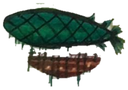
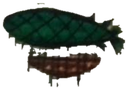
feat: main menu on Marti's darker repaint, night veil off
The menu painting now comes from the 2026-11-25 photo of the repaint.
menu_painting.py takes an optional reference (tools/storeart/key_art.jpg,
the 2026-11-23 flattening) and lays the new photo onto it through a
matched displacement field: the two photos disagreed by up to ~38 px
inside the edges, and every hand-placed coordinate (airship, clock,
windows, character outlines) is in the reference's pixels.
menu_painting_band.py finds those shapes on the sharper reference and
takes the colours from the new photo; the softer, darker repaint has no
clean thresholds. Tape in shadowed corners is detected too.

The repaint is dark enough on its own, so the flat night veil is off
(NIGHT.alpha 0) and only the edge vignette stays; the veil made it muddy.
Store art still uses the old painting.

diff --git a/scenes/MainScene.js b/scenes/MainScene.js
@@ -14,9 +14,10 @@ const PANEL_W = 470;           // the Load / Settings panels sliding out of the 
 const TITLE_X = 457;           // the top title's centre on the painting (band.png px): between the spire and the Scraper
 // the menu's layout (menuLayout() 'center'): the painting across the whole screen, only the entries in the middle
 const CARD = { w: 264, y: 206, top: 26 };
-// the painting at night: dimmed, its light left in a few places (fractions of the painting: the
-// Egg Cathedral's shell, the green haze over the cemetery, the clock spider, the bear, Edgar; tools/storeart's POOLS)
-const NIGHT = { colour: '4,3,14', alpha: 0.5, pools: [[0.17, 0.40, 0.17, 0.30, 1.0], [0.55, 0.30, 0.16, 0.16, 0.55],
+// the painting at night: only darker toward the edges now (alpha 0: Marti's repaint of 2026-11-25 is dark enough, the
+// 0.5 veil muddied it), its light left in a few places (fractions of the painting: the Egg Cathedral's shell, the
+// green haze over the cemetery, the clock spider, the bear, Edgar; tools/storeart's POOLS)
+const NIGHT = { colour: '4,3,14', alpha: 0, pools: [[0.17, 0.40, 0.17, 0.30, 1.0], [0.55, 0.30, 0.16, 0.16, 0.55],
     [0.92, 0.50, 0.07, 0.10, 0.7], [0.16, 0.82, 0.07, 0.14, 0.45], [0.89, 0.80, 0.06, 0.15, 0.45]] };
 
 export default class MainScene extends Phaser.Scene {
@@ -283,8 +284,9 @@ export default class MainScene extends Phaser.Scene {
     }
 
     /**
-     * Night over the painting (2026-11-24, the user found it too bright beside the dark menus): a dark veil,
-     * darker toward the edges, with the light left round a few things (NIGHT.pools). Over the painting's life, under
+     * Night over the painting (2026-11-24, the user found it too bright beside the dark menus): a dark veil
+     * (NIGHT.alpha, 0 since the darker repaint: just the vignette), darker toward the edges, with the light left round
+     * a few things (NIGHT.pools). Over the painting's life, under
      * the spores, the title and the menu.
      */
     createNight(bg) {

diff --git a/tools/artgen/menu_painting.py b/tools/artgen/menu_painting.py
@@ -1,26 +1,42 @@
-"""Straighten the phone photo of Marti's finished menu painting (2026-11-23) into a flat 1960x1386 picture.
+"""Straighten a phone photo of Marti's menu painting into a flat 1960x1386 picture.
 
-usage: menu_painting.py photo.jpg painting.png
+usage: menu_painting.py photo.jpg painting.png [ref.png]
 
 The photo bows a little (lens barrel distortion), so a single perspective transform leaves curved edges: the four
 painted edges are measured as polylines and a Coons patch maps them onto the rectangle (PIL MESH transform).
 INSET trims the paper's white rim and the shadow it casts on the wall.
+
+ref: an earlier flattening of the same painting (tools/storeart/key_art.jpg = the 2026-11-23 photo). Every hand-placed
+coordinate in menu_painting_band.py (the airship, the clock, the Scraper's windows, the characters' outlines) and the
+store art's crops are in ITS pixels, and a Coons patch only fixes the edges: inside, two photos still disagree by up
+to ~40 px. With ref, the new photo is laid onto it: a grid of patches is matched (high-passed, coarse to fine, so a
+darker repaint still matches), outliers in the featureless smoke take their neighbours' median, and the photo is
+resampled once through the edges and that displacement field.
+
 The pink tape over the four corners is painted over with what is a little further in (the floor at the bottom, the sky
 at the top: the side-band menu layouts show the whole painting).
-The coordinates are for the 2026-11-23 photo (2048x1467); re-measure them for a new photo or a scan.
+The edges are for the 2026-11-25 photo (1920x1080, the painting ~1450 px wide); re-measure them for a new photo or a
+scan (the 2026-11-23 photo's are in git). With ref they only need to be roughly right.
 """
+import statistics
 import sys
-from PIL import Image, ImageChops, ImageDraw, ImageFilter
+from PIL import Image, ImageChops, ImageDraw, ImageFilter, ImageStat
 
 W, H = 1960, 1386          # A-format paper, like the WIP photos
 INSET = 7
-# the painted area's edges in the photo, corner to corner (the corners themselves are under tape: extrapolated)
-TOP = [(42, 31), (200, 30), (500, 23), (900, 21), (1300, 20), (1650, 23), (1992, 24)]
-BOTTOM = [(36, 1431), (200, 1429), (500, 1430), (1000, 1428.6), (1400, 1423), (1700, 1416), (1850, 1416), (2025, 1413)]
-LEFT = [(42, 31), (40, 150), (35, 300), (30, 500), (28, 800), (30, 1000), (33, 1200), (36, 1431)]
-RIGHT = [(1992, 24), (1998, 200), (2008, 400), (2017, 700), (2021, 950), (2025, 1150), (2026, 1330), (2025, 1413)]
+# the painted area's edges in the photo, corner to corner (the corners themselves are under tape: extrapolated from
+# quadratic fits; the top right runs into a shadow and was read by eye)
+TOP = [(322.0, 25.0), (400, 24.5), (550, 23.9), (700, 24.0), (850, 24.5), (1000, 25.7), (1150, 27.3), (1300, 29.5),
+       (1450, 32.3), (1600, 35.6), (1710.3, 38.4)]
+BOTTOM = [(291.4, 1047.5), (400, 1054.1), (550, 1061.4), (700, 1066.5), (850, 1069.4), (1000, 1070.1), (1150, 1068.6),
+          (1300, 1064.9), (1450, 1059.0), (1600, 1050.9), (1762.2, 1039.7)]
+LEFT = [(322.0, 25.0), (318.3, 100), (313.7, 200), (309.5, 300), (305.8, 400), (302.5, 500), (299.5, 600), (297.0, 700),
+        (294.9, 800), (293.2, 900), (291.9, 1000), (291.4, 1047.5)]
+RIGHT = [(1710.3, 38.4), (1718.4, 100), (1730.3, 200), (1740.5, 300), (1748.9, 400), (1755.6, 500), (1760.6, 600),
+         (1763.9, 700), (1765.4, 800), (1765.3, 900), (1763.4, 1000), (1762.2, 1039.7)]
 # the tape: where to look for it in the flat painting, and how far in to take what's behind it from
-TAPE = [((0, 1225, 115, H), 96), ((1855, 1285, W, H), -84), ((0, 0, 130, 120), 70), ((1830, 0, W, 120), -70)]
+TAPE = [((0, 1225, 115, H), 96), ((1850, 1260, W, H), -84), ((0, 0, 130, 120), 70), ((1800, 0, W, 140), -70)]
+STEP = 98                  # the registration grid (painting px)
 
 
 def along(pts, t, axis):
@@ -40,10 +56,12 @@ def coons(u, v):
                  for i in (0, 1))
 
 
-def flatten(photo):
+def flatten(photo, disp=None):
+    """the photo resampled onto the rectangle; disp(x, y) -> (dx, dy) moves where each output pixel is taken from"""
     def src(x, y):
-        return coons((x + INSET) / (W + 2 * INSET), (y + INSET) / (H + 2 * INSET))
-    C = 28
+        dx, dy = disp(x, y) if disp else (0, 0)
+        return coons((x + dx + INSET) / (W + 2 * INSET), (y + dy + INSET) / (H + 2 * INSET))
+    C = 14
     mesh = []
     for y in range(0, H, C):
         for x in range(0, W, C):
@@ -51,6 +69,57 @@ def flatten(photo):
             quad = (src(x, y), src(x, y1), src(x1, y1), src(x1, y))      # PIL: nw, sw, se, ne
             mesh.append(((x, y, x1, y1), tuple(c for p in quad for c in p)))
     return photo.transform((W, H), Image.MESH, mesh, Image.BICUBIC)
+
+
+def register(ref, flat):
+    """disp(x, y): where the spot at (x, y) of ref is in flat (a displacement field on a STEP grid, bilinear)"""
+    def hp(im):
+        e = im.filter(ImageFilter.GaussianBlur(0.9))
+        return ImageChops.subtract(e, e.filter(ImageFilter.GaussianBlur(7.5)), 1, 128)
+    ref, flat = ref.convert('L'), flat.convert('L')
+    levels = {f: (hp(ref.resize((W // f, H // f), Image.BOX)), hp(flat.resize((W // f, H // f), Image.BOX)))
+              for f in (4, 2, 1)}
+
+    def search(f, x, y, dx, dy, rad, half):
+        r, m = levels[f]
+        ax, ay = round(x / f - half), round(y / f - half)
+        a = r.crop((ax, ay, ax + 2 * half, ay + 2 * half))
+        bx, by = round((x + dx) / f - half), round((y + dy) / f - half)
+        res = sorted((ImageStat.Stat(ImageChops.difference(a, m.crop((bx + i, by + j, bx + i + 2 * half,
+                                                                      by + j + 2 * half)))).mean[0], i, j)
+                     for j in range(-rad, rad + 1) for i in range(-rad, rad + 1))
+        s, i, j = res[0]
+        far = next((s2 for s2, i2, j2 in res if max(abs(i2 - i), abs(j2 - j)) >= 3), s)
+        return (bx + i - ax) * f, (by + j - ay) * f, far - s
+
+    cols, rows = W // STEP + 1, H // STEP + 1
+    g = []
+    for r in range(rows):
+        g.append([])
+        for c in range(cols):
+            x, y = min(max(c * STEP, 64), W - 64), min(max(r * STEP, 64), H - 64)
+            dx, dy, _ = search(4, x, y, 0, 0, 14, 12)          # +-56 px
+            dx, dy, _ = search(2, x, y, dx, dy, 2, 24)
+            dx, dy, sure = search(1, x, y, dx, dy, 2, 48)
+            g[-1].append([dx, dy, sure])
+    for _ in range(3):         # outliers (the smoke has few features) -> their neighbours' median
+        for r in range(rows):
+            for c in range(cols):
+                nb = [g[rr][cc] for rr in range(max(0, r - 1), min(rows, r + 2))
+                      for cc in range(max(0, c - 1), min(cols, c + 2)) if (rr, cc) != (r, c)]
+                mx, my = statistics.median(n[0] for n in nb), statistics.median(n[1] for n in nb)
+                e = g[r][c]
+                off = max(abs(e[0] - mx), abs(e[1] - my))
+                if off > 6 or (e[2] < 1.5 and off > 2.5):
+                    e[0], e[1] = mx, my
+
+    def disp(x, y):
+        fx, fy = min(max(x / STEP, 0), cols - 1.0001), min(max(y / STEP, 0), rows - 1.0001)
+        c, r = int(fx), int(fy)
+        u, v = fx - c, fy - r
+        return tuple((1 - u) * (1 - v) * g[r][c][k] + u * (1 - v) * g[r][c + 1][k]
+                     + (1 - u) * v * g[r + 1][c][k] + u * v * g[r + 1][c + 1][k] for k in (0, 1))
+    return disp
 
 
 def untape(im):
@@ -63,7 +132,7 @@ def untape(im):
         for y in range(y0, y1):
             for x in range(x0, x1):
                 r, g, b = px[x, y]
-                if r > 140 and r - g > 55 and r - b > 35:
+                if r > 95 and r - g > 45 and r - b > 30:          # pink, also in the shadow of a corner
                     mp[x, y] = 255
     mask = mask.filter(ImageFilter.MaxFilter(7))
     mp = mask.load()
@@ -79,5 +148,8 @@ def untape(im):
 
 
 if __name__ == '__main__':
-    painting = untape(flatten(Image.open(sys.argv[1]).convert('RGB')))
-    painting.save(sys.argv[2])
+    photo = Image.open(sys.argv[1]).convert('RGB')
+    flat = flatten(photo)
+    if len(sys.argv) > 3:
+        flat = flatten(photo, register(Image.open(sys.argv[3]), flat))
+    untape(flat).save(sys.argv[2])

diff --git a/tools/artgen/menu_painting_band.py b/tools/artgen/menu_painting_band.py
@@ -1,6 +1,9 @@
 """The main menu's background from Marti's painting (straightened by menu_painting.py), and the bits that move on it.
 
-usage: menu_painting_band.py painting.png out_dir x0 x1 top bottom width
+usage: menu_painting_band.py painting.png out_dir x0 x1 top bottom width [ref.png]
+ref: an earlier, sharper photo of the painting laid onto the same pixels (menu_painting.py ... ref): the shapes (the
+airship's mask, the clock's hands, the Scraper's windows, the cathedral's light) are found on it, because a darker
+repaint photographed softer has no clean thresholds; the colours always come from painting.png.
 out_dir gets:
   band.png        the painting's x0..x1 / top..bottom scaled to `width` px wide (the whole painting at 1012: as large as
                   the full-screen menus showed it); the airship's spot is sky, the clock face has no hands. MainScene
@@ -25,6 +28,8 @@ src_p, out_dir = sys.argv[1:3]
 x0, x1, top, bottom, width = (int(v) for v in sys.argv[3:8])
 paint = Image.open(src_p).convert('RGB')
 W, H = paint.size
+geo = Image.open(sys.argv[8]).convert('RGB') if len(sys.argv) > 8 else paint      # where the shapes are found
+assert geo.size == paint.size, 'ref must be the same size as the painting'
 BOX = (1682, 318, 1930, 490)          # the airship with its fins and drips
 SCRAPER_RIGHT = 1660                  # the Scraper's right edge, left of the ship
 POLE = (1666, 378, 1684, 600)         # the thin dark pole left of the gondola
@@ -39,7 +44,7 @@ def L(expr, **ims):
 
 # 1. the airship's mask from its colours: green/teal (balloon, fins, drips) + the warm gondola, closed over the
 #    lattice lines; then its dark outline (only right next to it). PIL's hue runs 0-255: green ~85, teal ~120.
-h, s, v = paint.convert('HSV').split()
+h, s, v = geo.convert('HSV').split()
 gondola = Image.new('L', (W, H), 0)
 ImageDraw.Draw(gondola).ellipse((1730, 406, 1886, 470), fill=255)
 green = L(lambda e: ((e['h'] > 60) & (e['h'] < 150) & (e['s'] > 60)) * 255, h=h, s=s)
@@ -66,7 +71,7 @@ alpha = mask.filter(ImageFilter.GaussianBlur(0.7))
 hole = mask.filter(ImageFilter.MaxFilter(9))
 # the whole envelope, also the sky between the ropes and drips (it's tinted by them)
 ImageDraw.Draw(hole).polygon([(1704, 400), (1888, 400), (1880, 490), (1724, 490)], fill=255)
-dh, ds, dv = paint.convert('HSV').split()
+dh, ds, dv = geo.convert('HSV').split()
 ochre = L(lambda e: ((e['h'] >= 18) & (e['h'] <= 50) & (e['s'] > 60) & (e['v'] > 100)) * 255, h=dh, s=ds, v=dv)
 other = ochre.filter(ImageFilter.MaxFilter(5))
 ImageDraw.Draw(other).rectangle((0, 0, SCRAPER_RIGHT, H), fill=255)
@@ -144,17 +149,17 @@ bg = Image.composite(fill, paint, hole.filter(ImageFilter.GaussianBlur(5)))
 CLOCK_C, CLOCK_R = (1809, 700), 34          # the white face (inside the numerals' outer ends)
 PIVOT = (1809.5, 698.0)
 MINUTE_TIP, HOUR_TIP = (1784, 718), (1830.5, 724)     # it says about twenty to five
-lum = paint.convert('L')
+lum, glum = paint.convert('L'), geo.convert('L')        # the painting's lightness / the shapes'
 face = Image.new('L', (W, H), 0)
 ImageDraw.Draw(face).ellipse((CLOCK_C[0] - CLOCK_R, CLOCK_C[1] - CLOCK_R, CLOCK_C[0] + CLOCK_R, CLOCK_C[1] + CLOCK_R), fill=255)
-dark = ImageChops.multiply(lum.point(lambda t: 255 if t < 125 else 0), face)
+dark = ImageChops.multiply(glum.point(lambda t: 255 if t < 125 else 0), face)
 hands = dark.copy()
 ImageDraw.floodfill(hands, (round(PIVOT[0]), round(PIVOT[1]) + 2), 128, thresh=0)       # the V, not the numerals
 hands = hands.point(lambda t: 255 if t == 128 else 0)
 assert hands.getbbox(), 'the pivot is not on the hands'
 hands_wide = ImageChops.multiply(hands.filter(ImageFilter.MaxFilter(5)), face)
 face_known = ImageChops.multiply(ImageChops.multiply(face.filter(ImageFilter.MinFilter(5)), ImageChops.invert(hands_wide)),
-                                 lum.point(lambda t: 255 if t > 150 else 0))
+                                 glum.point(lambda t: 255 if t > 150 else 0))
 
 
 def normconv_small(img, known, radii=(8, 4, 2)):
@@ -273,14 +278,14 @@ def window(seed, lit=False):
     if lit:
         # a lit window has dark scribbles in its orange: its inside = the orange around the seed, closed over them
         box = (seed[0] - 22, seed[1] - 26, seed[0] + 22, seed[1] + 26)
-        hh, ss, vv = (c.crop(box) for c in paint.convert('HSV').split())
+        hh, ss, vv = (c.crop(box) for c in geo.convert('HSV').split())
         o = L(lambda e: ((e['h'] >= 10) & (e['h'] <= 32) & (e['s'] > 70) & (e['v'] > 130)) * 255, h=hh, s=ss, v=vv)
         o = o.filter(ImageFilter.MaxFilter(5)).filter(ImageFilter.MinFilter(5))
         full = Image.new('L', (W, H), 0)
         full.paste(o, box[:2])
         return full
     # the frame: dark (< 75), thickened a pixel so its thin spots don't let the flood out; the inside grows back
-    frame = lum.crop((seed[0] - 30, seed[1] - 30, seed[0] + 30, seed[1] + 30)).point(lambda t: 255 if t < 75 else 0)
+    frame = glum.crop((seed[0] - 30, seed[1] - 30, seed[0] + 30, seed[1] + 30)).point(lambda t: 255 if t < 75 else 0)
     m = ImageChops.invert(frame.filter(ImageFilter.MaxFilter(3)))
     ImageDraw.floodfill(m, (30, 30), 128, thresh=0)
     m = m.point(lambda t: 255 if t == 128 else 0).filter(ImageFilter.MaxFilter(3))
@@ -313,7 +318,7 @@ for lit, seeds in ((True, LIT), (False, DARK)):
 
 # the cathedral's light (its three arched windows and the door) in other colours, to fade to now and then
 CATHEDRAL_LIGHTS = [(320, 405, 357, 470), (241, 560, 279, 630), (401, 555, 439, 626), (302, 690, 387, 818)]
-ch, cs, cv = paint.convert('HSV').split()
+ch, cs, cv = geo.convert('HSV').split()
 yellow = L(lambda e: ((e['h'] >= 18) & (e['h'] <= 55) & (e['s'] > 20) & (e['v'] > 120)) * 255, h=ch, s=cs, v=cv)
 lights = Image.new('L', (W, H), 0)
 for b_ in CATHEDRAL_LIGHTS:
